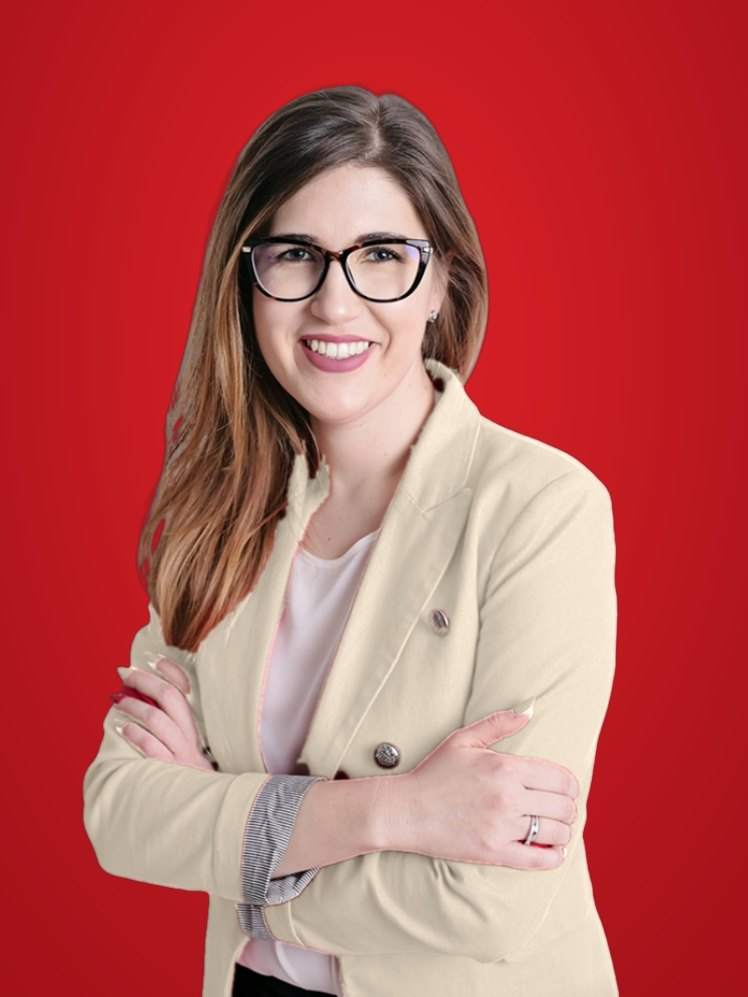
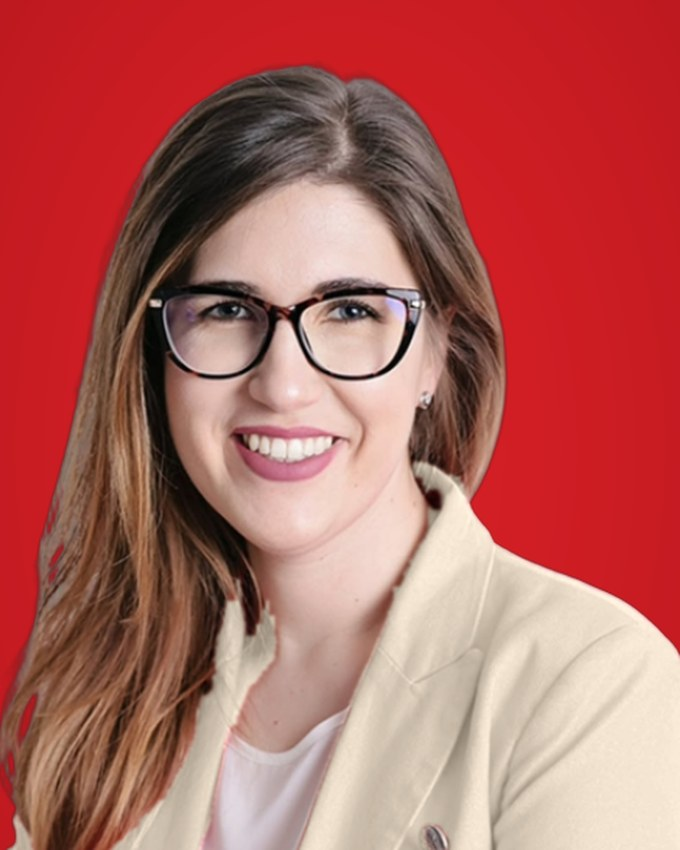
Add Urszula Brzozowska portrait; match team framing
Claude-Session: https://claude.ai/code/session_01TFe7T9GAZdAJhXa4UkGFGh

diff --git a/index.html b/index.html
@@ -833,12 +833,12 @@ body::before { content: ""; position: fixed; inset: 0 0 auto; height: env(safe-a
       <h2>Zespół <em>Global Women</em></h2>
       <div class="team-grid">
         <article class="person">
-          <div class="person-photo person-photo--bordo" aria-hidden="true"><span>UB</span></div>
+          <div class="person-photo"><img src="assets/urszula-brzozowska.jpg" alt="Urszula Brzozowska" width="768" height="960" loading="lazy"></div>
           <h3>Urszula Brzozowska</h3>
           <p>Dyrektorka generalna magazynu gospodarczego Business Women IMPACT</p>
         </article>
         <article class="person">
-          <div class="person-photo"><img src="assets/judyta-niewiadomska-roein.jpg" alt="Judyta Niewiadomska-Roein" width="748" height="997" loading="lazy"></div>
+          <div class="person-photo"><img src="assets/judyta-niewiadomska-roein.jpg" alt="Judyta Niewiadomska-Roein" width="680" height="850" loading="lazy"></div>
           <h3>Judyta Niewiadomska-Roein</h3>
           <p>Dyrektorka</p>
         </article>
